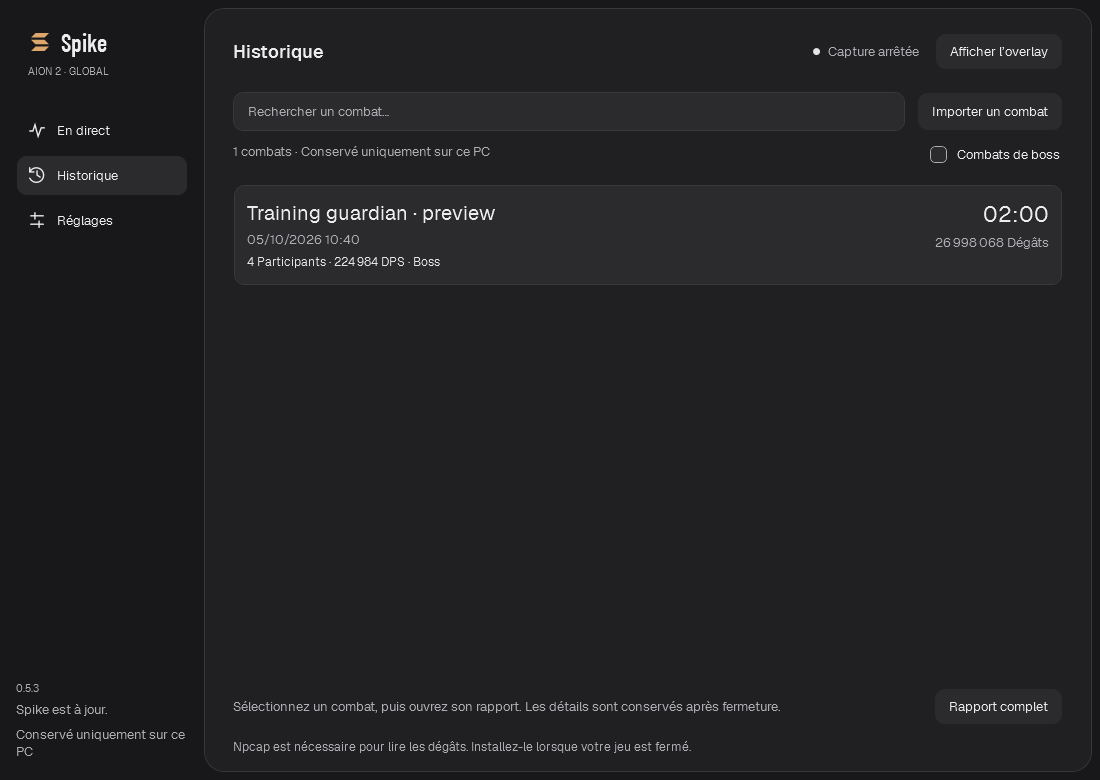
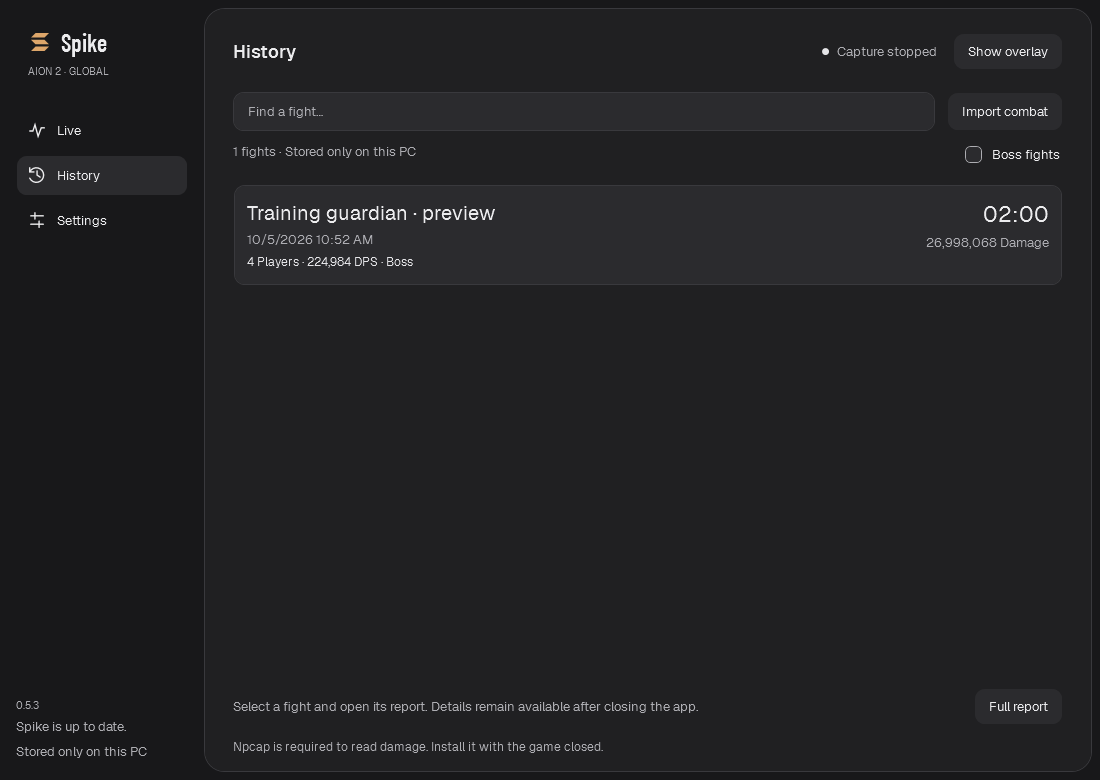
Actualise les captures publiques en anglais

diff --git a/site/index.html b/site/index.html
@@ -41,7 +41,7 @@
       </div>
       <figure class="instrument">
         <div class="instrument-top"><span class="eyebrow" data-i18n="overlayLabel">LE MINI-METER</span><span class="demo-label" data-i18n="demo">DÉMO</span></div>
-        <div class="overlay-stage"><img id="overlay-preview" src="assets/overlay-fr-dark.png" width="460" height="244" alt="Mini-meter Spike : classement de quatre personnages fictifs." fetchpriority="high"></div>
+        <div class="overlay-stage"><img id="overlay-preview" src="assets/overlay-en-dark.png" width="460" height="244" alt="Mini-meter Spike : classement de quatre personnages fictifs." fetchpriority="high"></div>
         <figcaption><span class="caption-index">01 /</span><span data-i18n="overlayCaption">L’essentiel pendant le combat.<br>Le détail, quand vous le décidez.</span></figcaption>
         <fieldset class="themes" hidden><legend data-i18n="themeLegend">Même application. Votre ambiance.</legend><div class="theme-options"><button type="button" data-theme-choice="dark" aria-pressed="true"><span class="swatch graphite"></span><span data-i18n="dark">Graphite</span></button><button type="button" data-theme-choice="light" aria-pressed="false"><span class="swatch ivory"></span><span data-i18n="light">Ivoire</span></button><button type="button" data-theme-choice="contrast" aria-pressed="false"><span class="swatch contrast"></span><span data-i18n="contrast">Contraste élevé</span></button></div></fieldset>
       </figure>
@@ -50,7 +50,7 @@
     <section class="analysis-section wrap" id="apercu" aria-labelledby="analysis-title">
       <div class="section-heading"><p class="eyebrow" data-i18n="analysisEyebrow">APRÈS L’IMPACT</p><h2 id="analysis-title" data-i18n="analysisTitle">Chaque combat a<br>quelque chose à vous dire.</h2><p data-i18n="analysisIntro">Du premier coup au dernier, retrouvez ce qui a fait la différence.</p></div>
       <div class="analysis-layout">
-        <figure class="report"><div class="report-bar"><span>Spike <span class="muted">/</span> <span data-i18n="reportLabel">Rapport de combat</span></span><span class="demo-label" data-i18n="demo">DÉMO</span></div><a id="report-link" href="assets/report-fr-dark.png"><img id="report-preview" src="assets/report-fr-dark.png" width="1100" height="780" loading="lazy" alt="Rapport Spike sur un combat fictif : dégâts, compétences et durée."></a><figcaption data-i18n="reportCaption">Aperçu de l’application · données fictives · cliquez pour agrandir</figcaption></figure>
+        <figure class="report"><div class="report-bar"><span>Spike <span class="muted">/</span> <span data-i18n="reportLabel">Rapport de combat</span></span><span class="demo-label" data-i18n="demo">DÉMO</span></div><a id="report-link" href="assets/report-en-dark.png"><img id="report-preview" src="assets/report-en-dark.png" width="1100" height="780" loading="lazy" alt="Rapport Spike sur un combat fictif : dégâts, compétences et durée."></a><figcaption data-i18n="reportCaption">Aperçu de l’application · données fictives · cliquez pour agrandir</figcaption></figure>
         <div class="feature-list">
           <article><span class="caption-index">01</span><h3 data-i18n="feature1Title">À la bonne échelle.</h3><p data-i18n="feature1">DPS, soins et part des dégâts. Passez du boss à toutes les cibles pour lire le combat dans son contexte.</p></article>
           <article><span class="caption-index">02</span><h3 data-i18n="feature2Title">Au-delà du classement.</h3><p data-i18n="feature2">Sélectionnez un joueur. Explorez ses compétences, leurs dégâts et les critiques observés.</p></article>

diff --git a/site/app.js b/site/app.js
@@ -76,11 +76,11 @@ let theme = [readPreference('spike-theme'), 'dark'].find(value => themes.include
 
 function updatePreviews() {
   const copy = translations[language];
-  document.querySelector('#overlay-preview').src = `assets/overlay-${language}-${theme}.png`;
+  document.querySelector('#overlay-preview').src = `assets/overlay-en-${theme}.png`;
   document.querySelector('#overlay-preview').alt = copy.overlayAlt;
-  document.querySelector('#report-preview').src = `assets/report-${language}-${theme}.png`;
+  document.querySelector('#report-preview').src = `assets/report-en-${theme}.png`;
   document.querySelector('#report-preview').alt = copy.reportAlt;
-  document.querySelector('#report-link').href = `assets/report-${language}-${theme}.png`;
+  document.querySelector('#report-link').href = `assets/report-en-${theme}.png`;
 }
 
 function setLanguage(value) {

diff --git a/src/Spike.Desktop/Dashboard.Verification.cs b/src/Spike.Desktop/Dashboard.Verification.cs
@@ -122,11 +122,22 @@ public partial class Dashboard
     internal static Encounter PreviewEncounter()
     {
         var source = Demo.Create();
+        var skillNames = new Dictionary<string, string>
+        {
+            ["Frappe de démonstration"] = "Demo strike",
+            ["Enchaînement de démonstration"] = "Demo combo",
+            ["Flamme de démonstration"] = "Demo flame",
+            ["Éclat de démonstration"] = "Demo burst",
+            ["Flèche de démonstration"] = "Demo arrow",
+            ["Salve de démonstration"] = "Demo volley",
+            ["Lumière de démonstration"] = "Demo light",
+            ["Châtiment de démonstration"] = "Demo smite"
+        };
         var players = source.Actors.Select((actor, i) => new Participant(i + 1, actor.Name, new[] { "Gladiator", "Sorcerer", "Ranger", "Cleric" }[i], true))
             .Append(new Participant(100, "Training guardian · preview", "", false, true)).ToArray();
         return new(2, Guid.NewGuid(), DateTimeOffset.Now, "Global", "preview", "demo", "", "preview", source.DurationMs,
             players, source.Hits.Select(hit => new CombatEvent(hit.OffsetMs, Array.FindIndex(source.Actors, actor => actor.Id == hit.ActorId) + 1, 100,
-                11010000, hit.Skill, hit.Damage, false, hit.Critical, false)).ToArray());
+                11010000, skillNames[hit.Skill], hit.Damage, false, hit.Critical, false)).ToArray());
     }
 
     internal async Task VerifyLive(int seconds, string directory)

diff --git a/src/Spike.Desktop/OverlayWindow.Verification.cs b/src/Spike.Desktop/OverlayWindow.Verification.cs
@@ -134,6 +134,9 @@ public sealed partial class OverlayWindow
                     throw new InvalidOperationException("Overlay copy must follow interface language changes.");
                 window.copyNotice = null; window.Render();
                 window.SavePreview(directory, $"overlay-{language}-{theme}.png");
+                window.rows.Children.OfType<CombatantRow>().First().RaiseEvent(new RoutedEventArgs(Button.ClickEvent));
+                window.SavePreview(directory, $"overlay-skills-{language}-{theme}.png");
+                window.actor = null; window.Render();
                 window.VerifyMenuDesign(directory, language, theme);
                 window.Width = window.MinWidth;
                 foreach (var compact in new[] { false, true })

diff --git a/README.md b/README.md
@@ -50,9 +50,9 @@
 
 **Click a skill or Report to open the full analysis.** The selected player and target scope carry over from the overlay. In the app, selecting another player updates the **Skills** panel; use the search field to find a skill by name.
 
-![Original Atiel fight report in French: Soras selected, game skill icons, damage and DPS per skill, hits, ticks, and observed critical hits](docs/images/rapport-atiel.png)
+![Spike combat report in English: fictional players, skill damage and DPS, hits, ticks, and observed critical hits](docs/images/report-demo.png)
 
-*Original screenshot from an earlier version, kept in French with the original player names. It shows a real fight and the game's skill icons.*
+*The redesigned combat report, shown in English with fictional demonstration data.*
 
 | Per-skill metric | What the report shows |
 | --- | --- |
@@ -63,7 +63,7 @@
 | **Ticks** | Periodic events counted separately from direct hits. |
 | **Critical hits (%)** | The proportion of observed hits that were critical, excluding ticks. |
 
-In the report above, **Feu de l'enfer - MAX** deals **162,658 damage**, accounting for **12.4%** of Soras's damage and **1,351 DPS**. Its **12.5% critical rate** applies to the skill's 8 hits, not its share of total damage.
+Damage share and critical rate measure different things: a skill can account for half of a player's damage without half of its hits being critical.
 
 The summary above the skills shows the player's damage, hits, critical rate, **Largest event**, and **Average event** within the displayed scope. The last two values include ticks. Switch to **Healing** for the same breakdown using raw healing and HPS. Expand **Fight timeline** to chart all observed participants or the selected player.
 
@@ -78,7 +78,7 @@ The summary above the skills shows the player's damage, hits, critical rate, **L
 
 </details>
 
-> The overlay and history previews use **fictional demonstration data**, rendered in English from version **0.4.13** with the Graphite theme. The Atiel report is an original French screenshot of a real fight, published with permission. None of these screenshots should be used to compare class performance.
+> All previews use **fictional demonstration data**, rendered in English with the redesigned interface from version **0.5.3** and the Graphite theme. They should not be used to compare class performance.
 
 | During your session | When reviewing your performance |
 | --- | --- |

diff --git a/site/README.md b/site/README.md
@@ -14,9 +14,14 @@ statique local, puis ouvrir son adresse. Ne jamais servir la racine du dépôt.
 
 ## Aperçus
 
-Les 18 images de `images/` sont des rendus démo de `tools/Verify.ps1` version 0.5.3 :
-- `overlay-{langue}-{thème}.png` vient du fichier de même nom dans `artifacts/verification`.
-- `report-{langue}-{thème}.png` vient de `{langue}-{thème}-live.png`.
+Les 6 images de `images/` sont des rendus démo de `tools/Verify.ps1`, avec l'interface
+0.5.3 en anglais (y compris les noms des compétences fictives), dans les trois thèmes :
+- `overlay-en-{thème}.png` vient du fichier de même nom dans `artifacts/verification`.
+- `report-en-{thème}.png` vient de `en-{thème}-live.png`.
+
+Les captures restent en anglais quelle que soit la langue du texte du site.
+Le README principal utilise `overlay-discreet-en-dark.png`, `overlay-skills-en-dark.png`,
+`en-dark-live.png` et `en-dark-history.png` du même dossier de vérification.
 
 Seuls ces fichiers synthétiques explicitement nommés sont copiés. Ne jamais copier
 un répertoire de diagnostics, un combat réel ou `docs/images/rapport-atiel.png` sur le site.
